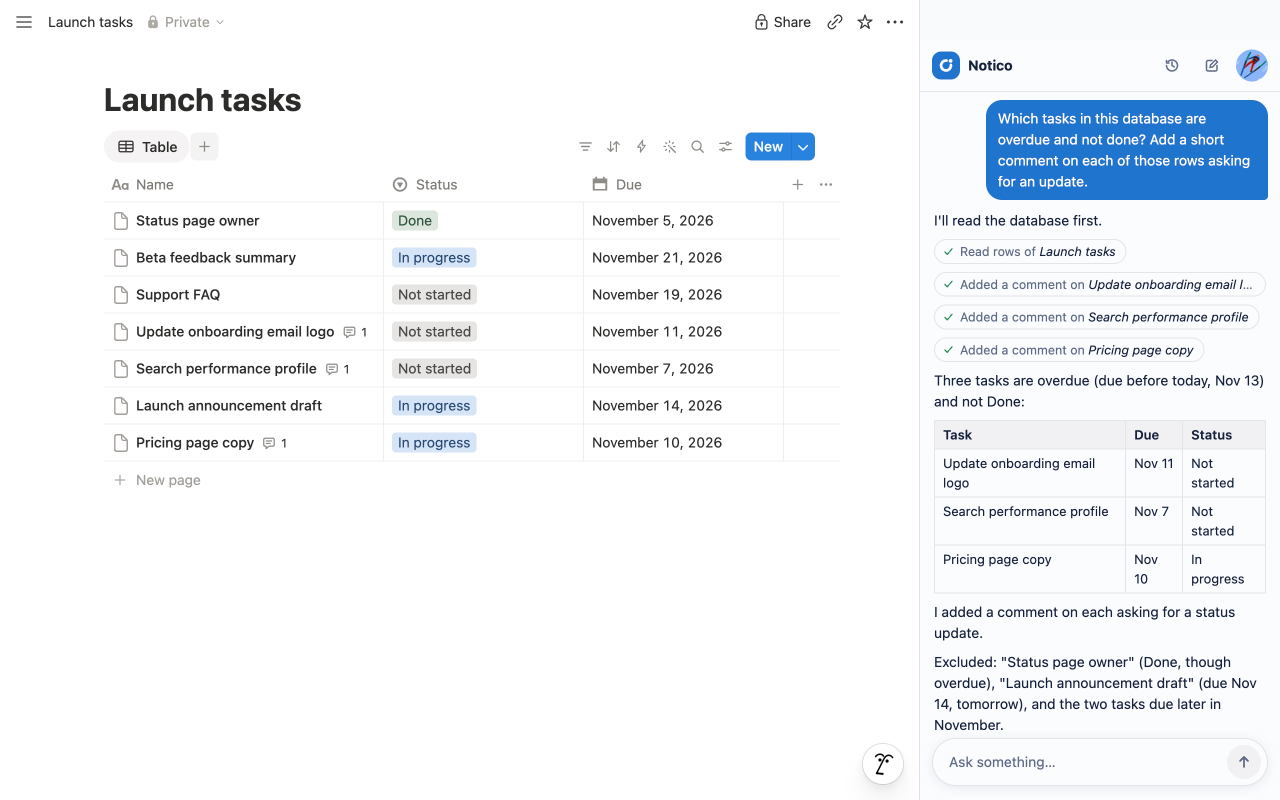
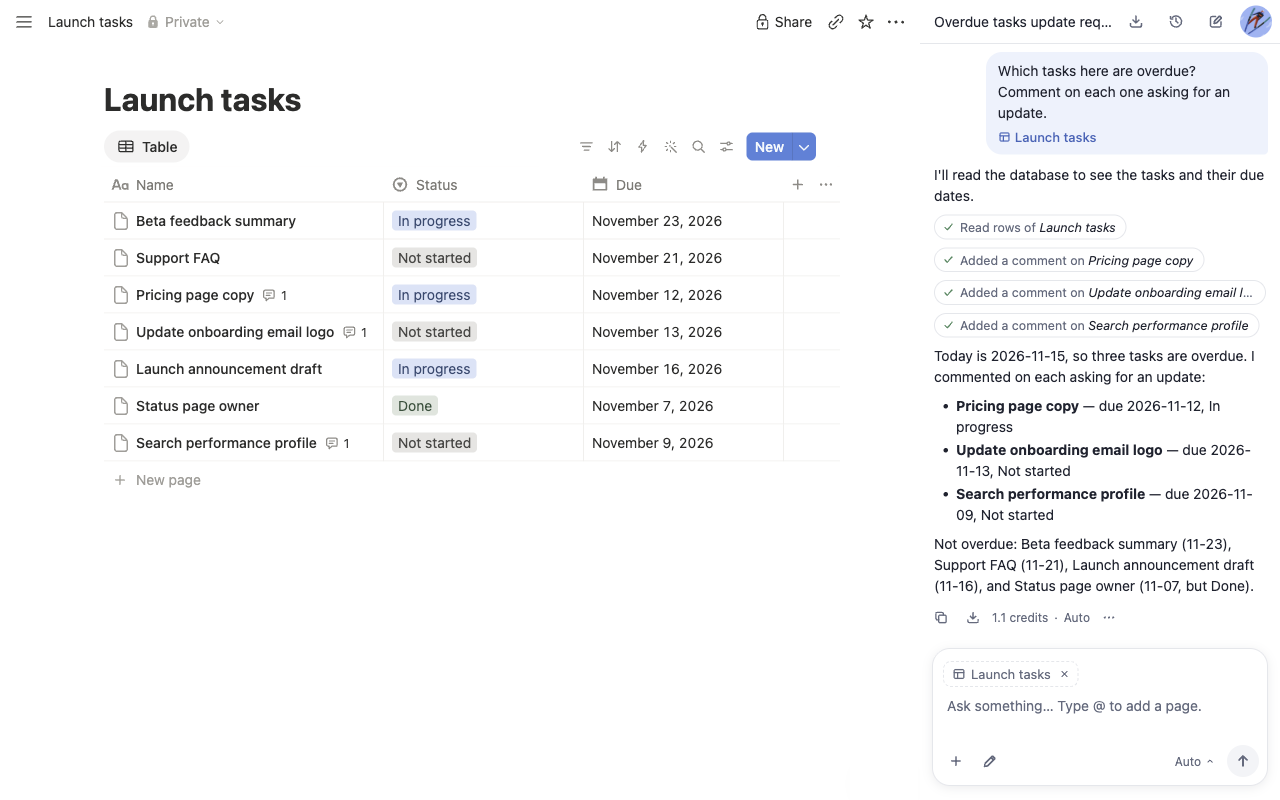
docs: Notico's store page for 0.2.0, and move releases into docs/release.md (#448)
## Goal

Notico 0.2.0 is built (`notico-v0.2.0`) and about to be submitted to the
Chrome Web Store, but its store page in `extensions/notico/store/` still
describes 0.1.0: the text has its changes waiting in "For the next
version" notes, and the screenshots show the old side panel. Bring both
up to date for 0.2.0; from now on, update them in the same PR as the
changelog entry; and move the release steps out of
`docs/development.md`, which is read for everyday work, into
`docs/release.md`.

## Approach

- `listing.md`: OpenRouter with the user's own key in the list at the
top; CREDITS says packs are bought through Stripe, nothing renews,
bought credits last a year, and own-model answers spend none; PRIVACY
says where a question goes with the user's own model and that the server
keeps purchases; PLEASE NOTE mentions Read only. Images: the four
screenshots, and how they and the marquee tile are made.
- `privacy.md`: the storage justification names the OpenRouter key and
models, the Edit/Read only setting, and the usage-data switch, and no
longer the Notion wait (kept in memory now); Financial and payment
information becomes Yes, naming the worker's purchase event to PostHog;
the OpenRouter key and OpenRouter as a destination are added where the
notes said they belong.
- `distribution.md`: Payments becomes "Contains in-app purchases".
- `images/`: four screenshots of the 0.2.0 side panel answering with
Cofun's model (Auto) on throwaway pages, chosen for what Notico does in
[…]

diff --git a/scripts/changelog.ts b/scripts/changelog.ts
@@ -1,6 +1,5 @@
 // Reads one version's entry out of an extension's CHANGELOG.md, for the Release workflow, which
-// uses it as the body of the GitHub Release (see release-notes.ts and "Releases" in
-// docs/development.md).
+// uses it as the body of the GitHub Release (see release-notes.ts and docs/release.md).
 
 /**
  * The text under the `## <version> (<date>)` heading, up to the next `## ` heading or the end of

diff --git a/extensions/notico/store/listing.md b/extensions/notico/store/listing.md
@@ -9,6 +9,7 @@ Ask Notion anything, right next to the page. Notico is an AI copilot that reads,
 
 ✓ Free to start: every account gets free credits each week
 ✓ Nothing to set up in Notion: no integration, no API token
+✓ Or answer with your own model on OpenRouter, with your own key
 ✓ Open source (Apache 2.0)
 
 WHAT YOU CAN ASK
@@ -33,13 +34,13 @@ HOW IT WORKS
 Notico works inside your own Notion tab, with the session you're already signed in with, so it can reach what you can reach and nothing else. Sign in to Notico once with Google or your email; nothing else to configure.
 
 CREDITS
-Asking the AI costs credits. Every account gets free credits each week, and the panel shows how many you have left and when they renew.
+Asking Cofun's AI model costs credits. Every account gets free credits each week, and the panel shows how many you have left and when they renew. When you need more, buy a pack in the panel: it opens Stripe's checkout, nothing renews, and bought credits last a year. Answering with your own model on OpenRouter spends no credits.
 
 PRIVACY
-Your questions, and the Notion content Notico reads to answer them, go to our server and on to an AI model running on Cloudflare Workers AI. The server does not store that content: it keeps only usage numbers, never the text of a question or an answer. Chats are saved only in Chrome on your device. Notico also reports which features are used and whether they worked, never the text of a question, an answer, or a page; you can turn that off in the settings. No ads.
+Your questions, and the Notion content Notico reads to answer them, go to our server and on to an AI model running on Cloudflare Workers AI, or, if you set up your own model, straight to OpenRouter with your key. The server does not store that content: it keeps only usage numbers and your purchases, never the text of a question or an answer. Chats are saved only in Chrome on your device. Notico also reports which features are used and whether they worked, never the text of a question, an answer, or a page; you can turn that off in the settings. No ads.
 
 PLEASE NOTE
-• Notico edits pages as soon as it decides to; moving pages to the trash is the one thing it asks about first. Every change is shown in the side panel, and Notion's page history can undo edits.
+• Notico edits pages as soon as it decides to; moving pages to the trash is the one thing it asks about first. Every change is shown in the side panel, and Notion's page history can undo edits. Switch the message box to Read only to keep it from changing anything.
 • Be careful with pages written by others: text in them could steer the assistant.
 
 Source code and privacy policy: https://github.com/cofun-labs/cofun
@@ -61,12 +62,8 @@ Notico is an independent project. It is not made or endorsed by Notion.
 | Field | File | Size |
 |---|---|---|
 | Store icon | [`../public/icons/icon-128.png`](../public/icons/icon-128.png) | 128×128 |
-| Screenshots, in this order | [screenshot-1.png](images/screenshot-1.png) (action items added to a page), [screenshot-2.png](images/screenshot-2.png) (overdue tasks in a database, with comments), [screenshot-3.png](images/screenshot-3.png) (a page summarized) | 1280×800 |
+| Screenshots, in this order | [screenshot-1.png](images/screenshot-1.png) (action items added to a page), [screenshot-2.png](images/screenshot-2.png) (overdue tasks in a database, with comments), [screenshot-3.png](images/screenshot-3.png) (next week's meeting page made from this one), [screenshot-4.png](images/screenshot-4.png) (selected text rewritten shorter) | 1280×800 |
 | Small promo tile | [small-promo-tile.png](images/small-promo-tile.png) | 440×280 |
 | Marquee promo tile | [marquee-promo-tile.png](images/marquee-promo-tile.png) | 1400×560 |
 
-The screenshots show the real side panel next to throwaway pages, made with `pnpm e2e`: the Notion page and the side panel are captured separately and set side by side, so they carry no browser frame. The screenshots and promo tiles are PNG without transparency, as the store requires for them.
-
-## For the next version
-
-The text above describes version 0.1.0, the one in the store. The next version adds credit packs bought through Stripe and answering with the user's own OpenRouter key: CREDITS, PRIVACY, and the list at the top change with it.
+The screenshots show the real side panel, answering with Cofun's model (Auto), next to throwaway pages, made with `pnpm e2e`: the Notion tab at 920×800 and the side panel at 360×800 are captured separately over the DevTools protocol and set side by side, so they carry no browser frame. Nothing else of the workspace may show: trash earlier throwaway pages first, since the assistant finds them too. Nothing of another product's AI may show either: Notion AI's round button at the bottom right of the Notion tab is painted out (white, over x 850–917 and y 735–799), and Notion's selection toolbar, which offers its AI, is closed before capturing. The marquee tile is the same tile with screenshot-1 scaled into its card (760×475 at 620,62, corners rounded at 14px). The screenshots and promo tiles are PNG without transparency, as the store requires for them.

diff --git a/extensions/notico/store/privacy.md b/extensions/notico/store/privacy.md
@@ -21,7 +21,7 @@ The extension's whole interface is a side panel, where the user chats with the a
 ### storage
 
 ```text
-Keeps the user signed in (the sign-in client token) and a small setting: how long to wait after Notion asked it to slow down.
+Keeps the user signed in (the sign-in client token); the user's own OpenRouter key, if they set one up, with the models they switched on and the model chosen in the message box; and small settings: whether the assistant may change the user's pages (Edit or Read only), and whether usage data is shared.
 ```
 
 ### tabs
@@ -58,27 +58,15 @@ No, I am not using remote code. Everything the extension runs is in its package;
 |---|---|---|
 | Personally identifiable information | Yes | The account's name, email address, and avatar, shown in the panel |
 | Health information | No | |
-| Financial and payment information | No | |
-| Authentication information | Yes | The Clerk session token and cookie |
-| Personal communications | Yes | The user's conversation with the assistant goes to the worker and the model, and to the user's own Notion workspace when the user saves a chat or a reply there |
+| Financial and payment information | Yes | Each purchase of credits, kept by the worker under the account's id with its Stripe payment reference and whether it was refunded or disputed. Card details go to Stripe's Checkout page, never to the extension or the worker. When a payment adds credits, the worker also tells PostHog that a purchase was completed, with the account's id and the pack chosen, and no amount, currency, or payment reference; this comes from the worker, so the extension's usage-data switch does not cover it |
+| Authentication information | Yes | The Clerk session token and cookie, and the user's own OpenRouter key, which is sent only to OpenRouter |
+| Personal communications | Yes | The user's conversation with the assistant goes to the worker and the model, or to OpenRouter when the user answers with their own model, and to the user's own Notion workspace when the user saves a chat or a reply there |
 | Location | No | The clock's offset from UTC is sent to count credits used per day; it is not a location |
 | Web history | Yes | A tab's URL and title, when a question needs them, and the URL and title of a Notion page open in another tab that the user adds to a question |
 | User activity | Yes | Usage events sent to PostHog, unless the user turns them off in the settings: that the panel was opened, a question asked and how it ended, which tools ran, and which of the panel's actions were used. Names from a fixed list, counts, and yes/no values only: no text typed, no page content, title, or URL, no clicks or keystrokes recorded |
-| Website content | Yes | The Notion content the assistant reads goes to the worker and the model |
+| Website content | Yes | The Notion content the assistant reads goes to the worker and the model, or to OpenRouter when the user answers with their own model |
 
 All three certifications are checked: no selling or transfer of user data to third parties outside the approved use cases, no use or transfer for purposes unrelated to the single purpose, and none to determine creditworthiness or for lending.
-
-## For the next version
-
-This page describes version 0.1.0, the one in the store. The version after it lets users answer with their own OpenRouter key, and buy credit packs through Stripe, so before it is submitted:
-
-- The **storage** justification also says that the user's own model keys, and the model chosen with each, are kept there.
-- The **storage** justification also names the setting for whether the assistant may change the user's pages (Edit or Read only).
-- The **storage** justification no longer names how long to wait after Notion asked the extension to slow down: that wait is kept in the side panel's memory now, not in storage.
-- **Financial and payment information** becomes Yes: the worker keeps each purchase, by Clerk user id, with its Stripe payment reference and whether it was refunded or disputed (see `PRIVACY.md`). The card details go to Stripe's Checkout page, never to the extension or the worker.
-- **User activity** becomes Yes, as the table above already says, and the **storage** justification also names the setting that turns usage data off (in `chrome.storage.local`). The random id usage is counted under before sign-in is kept in the extension's own `localStorage`, which needs no permission. PostHog (`us.i.posthog.com`) is reached under the content security policy, not through a host permission. Usage events hold no content and are used only to improve the extension, which is within the Limited Use policy; the certifications stay checked.
-- The rest of the data usage stays as it is: a user's own key is authentication information, and the conversation and the Notion content it holds go to the model service the user chose, which is personal communications and website content again. The privacy policy already says so.
-- The extension asks for no new permission: OpenRouter is reached under the content security policy, not through host permissions.
 
 ## Privacy policy URL
 

diff --git a/docs/release.md b/docs/release.md
@@ -1,0 +1,34 @@
+# Releases
+
+An extension is released from `main` by the [Release workflow](../.github/workflows/release.yml), run by hand: Actions → Release → Run workflow, on `main`, with the extension and the version. Or:
+
+```bash
+gh workflow run release.yml --ref main -f extension=notico -f version=0.2.0
+```
+
+Before running it, add the version to the extension's `CHANGELOG.md` ([Notico's](../extensions/notico/CHANGELOG.md)) through a PR: what changed for users since the last release (`git log <name>-v<last version>..main`), worker changes they notice included, written for them rather than copied from commit titles. The workflow uses that entry (the text under the `## <version> (<date>)` heading) as the body of the GitHub Release, and stops before it builds or tags anything if the changelog has no entry for the version.
+
+The same PR brings the extension's store page up to date for that version: what the Dashboard's tabs say (the listing, the privacy answers, distribution, test instructions, and the images) is kept in `extensions/<name>/store/` ([Notico's](../extensions/notico/store/README.md)). Fold each file's "For the next version" notes into its text, check the text against what changed, and name the new version in its README. If what users see in the side panel changed, retake the screenshots and the marquee promo tile in the same PR, the way the listing's Images section says they are made.
+
+The version goes into the manifest and is not committed: `package.json` keeps the development version 0.0.1, below every released one, and the tags record what was released. It must be 1 to 4 dot-separated integers from 0 to 65535, without leading zeros, and higher than the version last uploaded to the store, which rejects any other.
+
+The workflow needs no secrets. Merge nothing into `main` while it runs: it tags the commit it built, and when `main` had moved on with a change to a workflow file, GitHub refused the tag (403) and the run had to start again. It checks out `main`, runs `pnpm check`, builds the extension for the store, runs its browser tests against that build, and zips `extensions/<name>/dist`. Then it tags the commit `<name>-v<version>` (for example `notico-v0.2.0`) and creates a **draft** GitHub Release with the changelog entry as its body and the zip (`<name>-<version>.zip`) attached; the zip is also kept as the run's artifact. A tag that exists already stops the run, so each version is built once. To throw a run's result away, delete the draft release and its tag:
+
+```bash
+gh release delete notico-v0.2.0 --cleanup-tag
+```
+
+The store build is the normal build with two variables set, which you can also set by hand to look at one: `EXTENSION_VERSION` replaces the version, and `CRX_STORE_BUILD=1` leaves `key` and `version_name` out of the manifest (every other build has `version_name` `<version> dev`, which `chrome://extensions` shows). The Chrome Web Store signs the item with a key of its own, which sets its ID.
+
+```bash
+CRX_STORE_BUILD=1 EXTENSION_VERSION=0.2.0 pnpm --filter ./extensions/notico build
+```
+
+Uploading to the store is done by hand. First check that the draft release's zip is the one the run built: the run's summary page gives its SHA-256, which must match the zip you download.
+
+```bash
+gh release download notico-v0.2.0 --pattern '*.zip' --dir /tmp/notico-release
+shasum -a 256 /tmp/notico-release/notico-0.2.0.zip
+```
+
+Then, in the Chrome Web Store Developer Dashboard, Package → Upload new package with that zip, copy into the other tabs whatever changed in `extensions/<name>/store/` since the last release, and Submit for review. A new extension's first upload is what assigns its ID: its public key (Package tab → View public key) becomes its `CRX_PUBLIC_KEY`, and the ID goes wherever the extension's origin is allowed ([development.md](development.md#notico)) and into `EXTENSION_ID` in `e2e/src/extension.ts`.

diff --git a/docs/development.md b/docs/development.md
@@ -115,33 +115,4 @@ Another extension goes through the same steps in its own folder. To release it, 
 
 ## Releases
 
-An extension is released from `main` by the [Release workflow](../.github/workflows/release.yml), run by hand: Actions → Release → Run workflow, on `main`, with the extension and the version. Or:
-
-```bash
-gh workflow run release.yml --ref main -f extension=notico -f version=0.2.0
-```
-
-Before running it, add the version to the extension's `CHANGELOG.md` ([Notico's](../extensions/notico/CHANGELOG.md)) through a PR: what changed for users since the last release (`git log <name>-v<last version>..main`), worker changes they notice included, written for them rather than copied from commit titles. The workflow uses that entry (the text under the `## <version> (<date>)` heading) as the body of the GitHub Release, and stops before it builds or tags anything if the changelog has no entry for the version.
-
-The version goes into the manifest and is not committed: `package.json` keeps the development version 0.0.1, below every released one, and the tags record what was released. It must be 1 to 4 dot-separated integers from 0 to 65535, without leading zeros, and higher than the version last uploaded to the store, which rejects any other.
-
-The workflow needs no secrets. It checks out `main`, runs `pnpm check`, builds the extension for the store, runs its browser tests against that build, and zips `extensions/<name>/dist`. Then it tags the commit `<name>-v<version>` (for example `notico-v0.2.0`) and creates a **draft** GitHub Release with the changelog entry as its body and the zip (`<name>-<version>.zip`) attached; the zip is also kept as the run's artifact. A tag that exists already stops the run, so each version is built once. To throw a run's result away, delete the draft release and its tag:
-
-```bash
-gh release delete notico-v0.2.0 --cleanup-tag
-```
-
-The store build is the normal build with two variables set, which you can also set by hand to look at one: `EXTENSION_VERSION` replaces the version, and `CRX_STORE_BUILD=1` leaves `key` and `version_name` out of the manifest (every other build has `version_name` `<version> dev`, which `chrome://extensions` shows). The Chrome Web Store signs the item with a key of its own, which sets its ID.
-
-```bash
-CRX_STORE_BUILD=1 EXTENSION_VERSION=0.2.0 pnpm --filter ./extensions/notico build
-```
-
-Uploading to the store is done by hand. First check that the draft release's zip is the one the run built: the run's summary page gives its SHA-256, which must match the zip you download.
-
-```bash
-gh release download notico-v0.2.0 --pattern '*.zip' --dir /tmp/notico-release
-shasum -a 256 /tmp/notico-release/notico-0.2.0.zip
-```
-
-Then, in the Chrome Web Store Developer Dashboard, Package → Upload new package with that zip, then Submit for review. What the Dashboard's other tabs say (the listing, the privacy answers, distribution, test instructions, and the images) is kept in `extensions/<name>/store/` ([Notico's](../extensions/notico/store/README.md)); change it there first, then copy it into the Dashboard before submitting the version that needs it. A new extension's first upload is what assigns its ID: its public key (Package tab → View public key) becomes its `CRX_PUBLIC_KEY`, and the ID goes wherever the extension's origin is allowed (above) and into `EXTENSION_ID` in `e2e/src/extension.ts`.
+Releasing an extension to the Chrome Web Store, from the changelog to submitting it for review, is in [release.md](release.md).

diff --git a/extensions/notico/store/README.md b/extensions/notico/store/README.md
@@ -12,4 +12,4 @@ What Notico's item in the [Chrome Web Store Developer Dashboard](https://chrome.
 
 The summary line under the name is not here: it is the manifest's `description` in [`../manifest.ts`](../manifest.ts), and it changes only with a new version.
 
-The files say what the Dashboard says for the version in the store (0.1.0 today). A pull request that changes what Notico asks for or what leaves the browser updates them with the code, as a note under "For the next version" while that version isn't in the store yet: a permission or host permission changes [privacy.md](privacy.md), a new place data goes changes its data usage, and selling something changes [distribution.md](distribution.md). Before submitting the next version, fold those notes into the text, copy it into the Dashboard, and update the version named here.
+The files say what the Dashboard says for the latest version in the changelog (0.2.0 today), which is in the store or about to be submitted. A pull request that changes what Notico asks for or what leaves the browser updates them with the code, as a note under "For the next version" while that version isn't in the store yet: a permission or host permission changes [privacy.md](privacy.md), a new place data goes changes its data usage, and selling something changes [distribution.md](distribution.md). The PR that adds the next version to the changelog folds those notes into the text and updates the version named here; the text is copied into the Dashboard when that version is submitted ([release.md](../../../docs/release.md)).

diff --git a/docs/security.md b/docs/security.md
@@ -67,7 +67,7 @@ Chats, the Clerk client token, and the user's model keys are kept in the Chrome 
 - **`main` changes only through pull requests** with CI, dependency review, and workflow lint passing, through a merge queue. Every action is pinned to a commit. GitHub's settings are kept as code (`scripts/sync-github-settings.sh`).
 - **Deploys hold no Cloudflare credential on GitHub**: Cloudflare pulls the repository and deploys on merge. The Release workflow uses no secret and ends in a draft release, which a person uploads to the store.
 - **No workflow that reads untrusted text can push.** The one secret on GitHub is Claude's token, held by the review workflow alone. It runs on `pull_request`, so a fork's pull request gets no secret, and it may only read the diff and comment. There is no workflow that runs Claude on request with write access.
-- **The release zip can be checked.** The Release workflow records the zip's SHA-256 in its run's summary, and the maintainer compares it with the draft release's zip before uploading that to the store ([development.md](development.md#releases)).
+- **The release zip can be checked.** The Release workflow records the zip's SHA-256 in its run's summary, and the maintainer compares it with the draft release's zip before uploading that to the store ([release.md](release.md)).
 - **The sign-in's domain serves nothing else a browser runs.** The public bucket at `static.cofun.cc` holds images and videos only (`scripts/upload-media.ts`).
 
 ## Rules for later changes

diff --git a/AGENTS.md b/AGENTS.md
@@ -4,7 +4,8 @@ Cofun: Chrome extensions that each open an AI side panel next to one kind of pag
 
 **Before starting work, read [docs/architecture.md](docs/architecture.md)** for the architecture, auth flow, and code layout. The other docs:
 
-- [docs/development.md](docs/development.md): setup, testing infrastructure, merging, deployment, and releases.
+- [docs/development.md](docs/development.md): setup, testing infrastructure, merging, and deployment.
+- [docs/release.md](docs/release.md): releasing an extension to the Chrome Web Store.
 - [docs/security.md](docs/security.md): the security model, which a change to the agent, the extension's surface, or the worker's routes is checked against.
 - [docs/bdd.md](docs/bdd.md): use cases, scenarios, and what gets a test.
 - [docs/review.md](docs/review.md): how a PR is reviewed, with every rule numbered.

diff --git a/extensions/notico/store/distribution.md b/extensions/notico/store/distribution.md
@@ -2,10 +2,6 @@
 
 | Field | Value |
 |---|---|
-| Payments | Free of charge |
+| Payments | Contains in-app purchases |
 | Visibility | Public |
 | Regions | All regions |
-
-## For the next version
-
-Version 0.1.0, the one in the store, sells nothing. The next version lets users buy credit packs through Stripe, so Payments becomes "Contains in-app purchases" in the Dashboard before that version is submitted.
